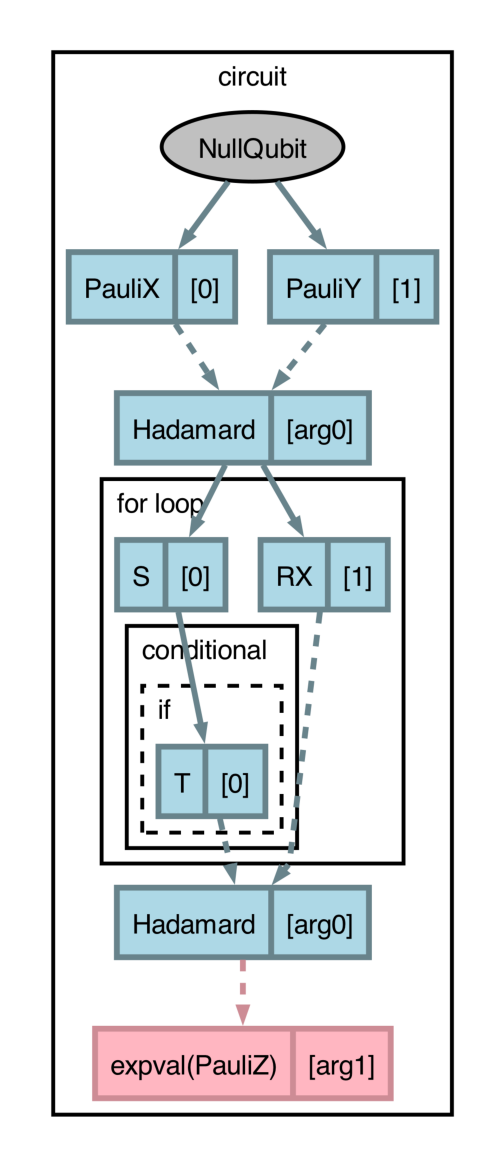
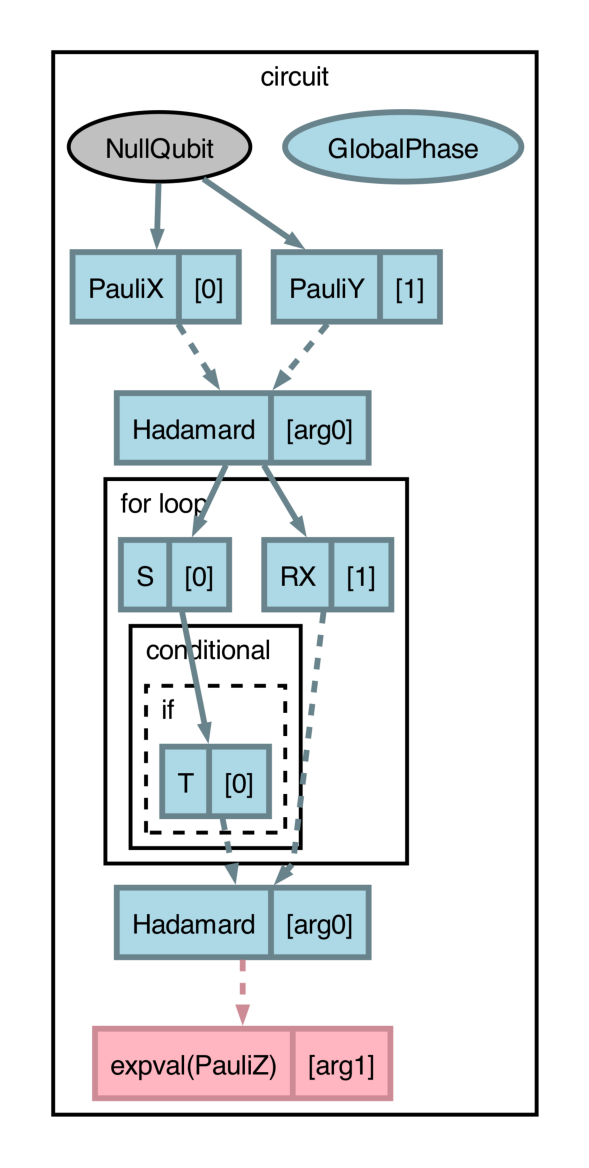
Daily rc sync to main (#2386)
Automatic sync from the release candidate to main during a feature
freeze.

---------

Changed region(s): [[0.0595, 0.0308, 0.9226, 0.9555]]

diff --git a/frontend/test/pytest/python_interface/inspection/test_construct_circuit_dag.py b/frontend/test/pytest/python_interface/inspection/test_construct_circuit_dag.py
@@ -758,7 +758,12 @@ class TestGetLabel:
 
     def test_global_phase_operator(self):
         """Tests against a GlobalPhase operator instance."""
-        assert get_label(qml.GlobalPhase(0.5)) == "<name> GlobalPhase|<wire> all"
+        assert get_label(qml.GlobalPhase(0.5)) == "GlobalPhase"
+        assert (
+            get_label(qml.ctrl(qml.GlobalPhase(0.0), control=0))
+            == "<name> C(GlobalPhase)|<wire> [0]"
+        )
+        assert get_label(qml.adjoint(qml.GlobalPhase(0.0))) == "Adjoint(GlobalPhase)"
 
     @pytest.mark.parametrize(
         "meas, label",
@@ -840,7 +845,7 @@ class TestCreateStaticOperatorNodes:
         assert len(nodes) == 2  # Device node + operator
 
         # Compiler throws out the wires and they get converted to wires=[] no matter what
-        assert nodes["node1"]["label"] == get_label(qml.GlobalPhase(0.5))
+        assert nodes["node1"]["label"] == "GlobalPhase"
 
     def test_qubit_unitary_op(self):
         """Test that QubitUnitary operations can be handled."""
@@ -1531,7 +1536,9 @@ class TestOperatorConnectivity:
         def my_circuit():
             qml.X(0)
             qml.GlobalPhase(0.5)
-            qml.Y(1)
+            qml.adjoint(qml.GlobalPhase(0.5))
+            qml.ctrl(qml.GlobalPhase, control=0)(0.5)
+            qml.Y(0)
 
         module = my_circuit()
 
@@ -1542,10 +1549,15 @@ class TestOperatorConnectivity:
         edges = utility.dag_builder.edges
         nodes = utility.dag_builder.nodes
 
+        # Ensure disjoint globalphase nodes show up
+        assert "GlobalPhase" in nodes["node2"]["label"]
+        assert "Adjoint(GlobalPhase)" in nodes["node3"]["label"]
+
+        # Ensure proper connectivity
         expected_edges = (
             ("NullQubit", "PauliX"),
-            ("PauliX", "GlobalPhase", {"style": "dashed"}),
-            ("GlobalPhase", "PauliY"),
+            ("PauliX", "C(GlobalPhase)"),
+            ("C(GlobalPhase)", "PauliY"),
         )
         assert_dag_structure(nodes, edges, expected_edges)
 
@@ -2673,6 +2685,7 @@ class TestCtrl:
         utility.construct(module)
 
         nodes = utility.dag_builder.nodes
+        assert len(nodes) == 2
 
         # cluster0 -> qjit
         # cluster1 -> my_workflow
@@ -2697,6 +2710,7 @@ class TestCtrl:
         utility.construct(module)
 
         nodes = utility.dag_builder.nodes
+        assert len(nodes) == 2
 
         # cluster0 -> qjit
         # cluster1 -> my_workflow
@@ -2721,6 +2735,7 @@ class TestCtrl:
         utility.construct(module)
 
         nodes = utility.dag_builder.nodes
+        assert len(nodes) == 2
 
         # cluster0 -> qjit
         # cluster1 -> my_workflow
@@ -2747,6 +2762,7 @@ class TestCtrl:
         utility.construct(module)
 
         nodes = utility.dag_builder.nodes
+        assert len(nodes) == 3
 
         # cluster0 -> qjit
         # cluster1 -> my_workflow
@@ -2784,6 +2800,8 @@ class TestAdjoint:
         clusters = utility.dag_builder.clusters
         nodes = utility.dag_builder.nodes
 
+        assert len(nodes) == 2
+
         # cluster0 -> qjit
         # cluster1 -> my_workflow
         assert clusters["cluster2"]["label"] == "adjoint"
@@ -2809,6 +2827,7 @@ class TestAdjoint:
 
         clusters = utility.dag_builder.clusters
         nodes = utility.dag_builder.nodes
+        assert len(nodes) == 2
 
         # cluster0 -> qjit
         # cluster1 -> my_workflow
@@ -2835,6 +2854,7 @@ class TestAdjoint:
 
         clusters = utility.dag_builder.clusters
         nodes = utility.dag_builder.nodes
+        assert len(nodes) == 2
 
         # cluster0 -> qjit
         # cluster1 -> my_workflow

diff --git a/frontend/catalyst/python_interface/inspection/construct_circuit_dag.py b/frontend/catalyst/python_interface/inspection/construct_circuit_dag.py
@@ -25,6 +25,7 @@ from pennylane.measurements import (
     VarianceMP,
 )
 from pennylane.operation import Operator
+from pennylane.ops import GlobalPhase
 from xdsl.dialects import builtin, func, scf
 from xdsl.ir import Block, Operation, Region
 
@@ -185,7 +186,6 @@ class ConstructCircuitDAG:
         ),
     ) -> None:
         """Generic handler for unitary gates."""
-
         # Create PennyLane instance
         qml_op: Operator = xdsl_to_qml_op(op)
 
@@ -201,7 +201,13 @@ class ConstructCircuitDAG:
         )
         self._node_uid_counter += 1
 
-        self._connect(qml_op.wires, node_uid)
+        # Unlike standard gates, GlobalPhase does not have data dependencies
+        # (it does not act on specific wires). Consequently, it is rendered as
+        # a disjoint or 'floating' node within the current cluster to reflect
+        # that it has no strict ordering requirements relative to other
+        # quantum operations.
+        if len(qml_op.wires) != 0:
+            self._connect(qml_op.wires, node_uid)
 
     @_visualize_operation.register
     def _projective_measure_op(self, op: quantum.MeasureOp) -> None:
@@ -380,7 +386,7 @@ class ConstructCircuitDAG:
     # ADJOINT
     # =============
 
-    @_visualize_operation.register
+    @_visit_operation.register
     def _adjoint(self, operation: quantum.AdjointOp) -> None:
         """Handle a PennyLane adjoint operation."""
 
@@ -785,11 +791,21 @@ def get_label(op: Operator | MeasurementProcess) -> str:
 @get_label.register
 def _operator(op: Operator) -> str:
     """Returns the appropriate label for PennyLane Operator"""
+    base_op = getattr(op, "base", op)
+
+    # If Adjoint(GlobalPhase) or GlobalPhase, wires will be []
+    # and so we don't need a port node. Controlled(GlobalPhase)
+    # will contain control wires that need to be visualized on the
+    # "wires" port.
+    if isinstance(base_op, GlobalPhase) and len(op.wires) == 0:
+        return str(op.name)
+
     wires = list(op.wires.labels)
     if not wires:
         wires_str = "all"
     else:
         wires_str = f"[{', '.join(map(str, wires))}]"
+
     # Using <...> lets us use ports (https://graphviz.org/doc/info/shapes.html#record)
     return f"<name> {op.name}|<wire> {wires_str}"
 

diff --git a/doc/releases/changelog-0.14.0.md b/doc/releases/changelog-0.14.0.md
@@ -156,8 +156,8 @@
   ```
 
 * Catalyst can now compile circuits that are directly expressed in terms of Pauli product rotation
-  (PPR) and Pauli product measurement (PPM) operations: :class:`pennylane.PauliRot` and
-  :func:`pennylane.pauli_measure`, respectively. This is only supported with PennyLane program capture
+  (PPR) and Pauli product measurement (PPM) operations: :class:`~.PauliRot` and
+  :func:`~.pauli_measure`, respectively. This is only supported with PennyLane program capture
   enabled (:func:`pennylane.capture.enable`). This support enables research and development spurred
   from [A Game of Surface Codes (arXiv1808.02892)](https://arxiv.org/pdf/1808.02892).
   [(#2145)](https://github.com/PennyLaneAI/catalyst/pull/2145)
@@ -167,7 +167,7 @@
   [(#2336)](https://github.com/PennyLaneAI/catalyst/pull/2336)
   [(#2360)](https://github.com/PennyLaneAI/catalyst/pull/2360)
 
-  :class:`pennylane.PauliRot` and :func:`pennylane.pauli_measure` can be manipulated with Catalyst's existing passes
+  :class:`~.PauliRot` and :func:`~.pauli_measure` can be manipulated with Catalyst's existing passes
   for PPR-PPM compilation only when PennyLane program capture is enabled. This includes
   :func:`pennylane.transforms.to_ppr`, :func:`pennylane.transforms.commute_ppr`,
   :func:`pennylane.transforms.merge_ppr_ppm`, :func:`pennylane.transforms.ppr_to_ppm`,
